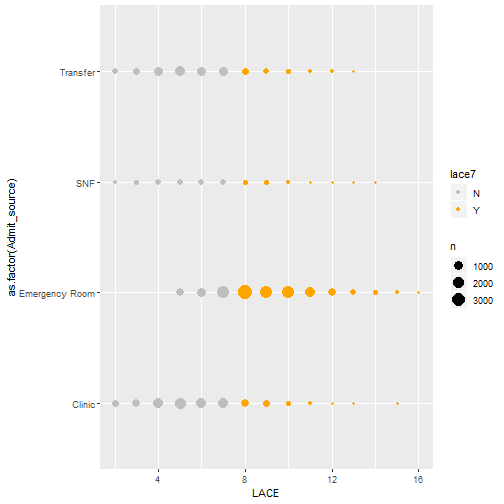
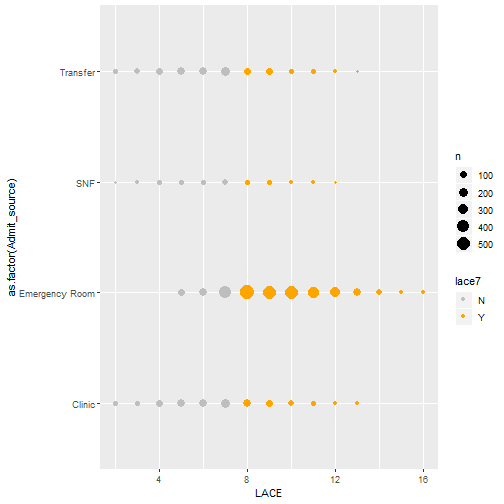
update

diff --git a/index.html b/index.html
@@ -21,6 +21,7 @@
 class: center, middle, inverse, title-slide
 
 # Data Storytelling
+## BMI 569 Data Analytics
 ### Ted Laderas
 ### 2019-08-22
 
@@ -134,11 +135,6 @@ class: center, middle
 
 Tables do require mental processing. It may be worth it to just use the number as the visual.
 
-
-```r
-knitr::include_graphics("img/number.png")
-```
-
 &lt;img src="img/number.png" width="755" /&gt;
 
 .footnote[Storytelling with Data]
@@ -146,27 +142,19 @@ knitr::include_graphics("img/number.png")
 ---
 # Barplots
 
-Stacked versus unstacked.
-
-
-```r
-knitr::include_graphics("img/barplots.png")
-```
-
 &lt;img src="img/barplots.png" width="600" /&gt;
 
 .footnote[Storytelling with Data]
 ---
 # Heatmaps
 
+.pull-left[
 May be better than straight tables! Highlight differences using color.
+]
 
-
-```r
-knitr::include_graphics("img/heatmap.png")
-```
-
+.pull-right[
 &lt;img src="img/heatmap.png" width="731" /&gt;
+]
 ---
 class: center, middle
 # Highlighting your message
@@ -204,8 +192,8 @@ cvd_race_count &lt;- cvd_patient %&gt;%
 ---
 # CVD Race Count
 
-<div id="htmlwidget-27a8dba133e02c95f293" style="width:100%;height:auto;" class="datatables html-widget"></div>
-<script type="application/json" data-for="htmlwidget-27a8dba133e02c95f293">{"x":{"filter":"none","data":[["1","2","3","4","5","6","7","8"],["AmInd","AmInd","Asian/PI","Asian/PI","Black/AfAm","Black/AfAm","White","White"],["N","Y","N","Y","N","Y","N","Y"],[127,43,4657,1732,1778,268,22004,4991]],"container":"<table class=\"display\">\n  <thead>\n    <tr>\n      <th> <\/th>\n      <th>race<\/th>\n      <th>cvd<\/th>\n      <th>count<\/th>\n    <\/tr>\n  <\/thead>\n<\/table>","options":{"columnDefs":[{"className":"dt-right","targets":3},{"orderable":false,"targets":0}],"order":[],"autoWidth":false,"orderClasses":false}},"evals":[],"jsHooks":[]}</script>
+<div id="htmlwidget-e84cb71fa933c17f6667" style="width:100%;height:auto;" class="datatables html-widget"></div>
+<script type="application/json" data-for="htmlwidget-e84cb71fa933c17f6667">{"x":{"filter":"none","data":[["1","2","3","4","5","6","7","8"],["AmInd","AmInd","Asian/PI","Asian/PI","Black/AfAm","Black/AfAm","White","White"],["N","Y","N","Y","N","Y","N","Y"],[127,43,4657,1732,1778,268,22004,4991]],"container":"<table class=\"display\">\n  <thead>\n    <tr>\n      <th> <\/th>\n      <th>race<\/th>\n      <th>cvd<\/th>\n      <th>count<\/th>\n    <\/tr>\n  <\/thead>\n<\/table>","options":{"columnDefs":[{"className":"dt-right","targets":3},{"orderable":false,"targets":0}],"order":[],"autoWidth":false,"orderClasses":false}},"evals":[],"jsHooks":[]}</script>
 
 ---
 # Context: Ways to highlight parts of a graph
@@ -231,8 +219,8 @@ fullset &lt;- cvd_patient %&gt;%
 
 There's a new column called `highlight`:
 
-<div id="htmlwidget-73d1f6ad7f1f191d7c3d" style="width:100%;height:auto;" class="datatables html-widget"></div>
-<script type="application/json" data-for="htmlwidget-73d1f6ad7f1f191d7c3d">{"x":{"filter":"none","data":[["1","2","3","4"],["AmInd","Asian/PI","Black/AfAm","White"],[43,1732,268,4991],["N","N","Y","N"]],"container":"<table class=\"display\">\n  <thead>\n    <tr>\n      <th> <\/th>\n      <th>race<\/th>\n      <th>count<\/th>\n      <th>highlight<\/th>\n    <\/tr>\n  <\/thead>\n<\/table>","options":{"columnDefs":[{"className":"dt-right","targets":2},{"orderable":false,"targets":0}],"order":[],"autoWidth":false,"orderClasses":false}},"evals":[],"jsHooks":[]}</script>
+<div id="htmlwidget-70e40c3cce2474d9d9f4" style="width:100%;height:auto;" class="datatables html-widget"></div>
+<script type="application/json" data-for="htmlwidget-70e40c3cce2474d9d9f4">{"x":{"filter":"none","data":[["1","2","3","4"],["AmInd","Asian/PI","Black/AfAm","White"],[43,1732,268,4991],["N","N","Y","N"]],"container":"<table class=\"display\">\n  <thead>\n    <tr>\n      <th> <\/th>\n      <th>race<\/th>\n      <th>count<\/th>\n      <th>highlight<\/th>\n    <\/tr>\n  <\/thead>\n<\/table>","options":{"columnDefs":[{"className":"dt-right","targets":2},{"orderable":false,"targets":0}],"order":[],"autoWidth":false,"orderClasses":false}},"evals":[],"jsHooks":[]}</script>
 
 ---
 ## Highlighting the data
@@ -326,21 +314,19 @@ Use of `case_when()` to recode categorical data:
 
 
 ```r
-cvd_patient %&gt;% 
+recoded_data &lt;- cvd_patient %&gt;% 
 * mutate(smoking = case_when(smoking == "Y" ~ "smoker",
 *                            smoking == "N" ~ "non-smoker")) %&gt;%
   mutate(cvd= case_when(cvd == "N" ~ "CVD",
                         cvd == "Y" ~ "None")) %&gt;%
   select(smoking, cvd) %&gt;%
   table()
+
+DT::datatable(recoded_data)
 ```
 
-```
-##             cvd
-## smoking        CVD  None
-##   non-smoker 25653  5620
-##   smoker      2913  1414
-```
+<div id="htmlwidget-d74284ddceeb9a9b9c17" style="width:100%;height:auto;" class="datatables html-widget"></div>
+<script type="application/json" data-for="htmlwidget-d74284ddceeb9a9b9c17">{"x":{"filter":"none","data":[["non-smoker","smoker","non-smoker","smoker"],["non-smoker","smoker","non-smoker","smoker"],["CVD","CVD","None","None"],[25653,2913,5620,1414]],"container":"<table class=\"display\">\n  <thead>\n    <tr>\n      <th> <\/th>\n      <th>smoking<\/th>\n      <th>cvd<\/th>\n      <th>Freq<\/th>\n    <\/tr>\n  <\/thead>\n<\/table>","options":{"columnDefs":[{"className":"dt-right","targets":[1,2]},{"orderable":false,"targets":0}],"order":[],"autoWidth":false,"orderClasses":false}},"evals":[],"jsHooks":[]}</script>
 
 ---
 # Context: Annotating a graph using `annotate`:
@@ -361,6 +347,7 @@ Think of a title for this plot!
 lace_table &lt;- read.delim("data/analytic-table-LACE.txt")
 
 out_plot &lt;- lace_table %&gt;% 
+  filter(Readmit30 == 1) %&gt;%
 * mutate(lace7 = ifelse(LACE &gt; 7, "Y", "N")) %&gt;%
   ggplot(aes(y=as.factor(Admit_source), x=LACE, color=lace7)) +
   geom_count() + 
@@ -379,6 +366,7 @@ out_plot &lt;- lace_table %&gt;%
 lace_table &lt;- read.delim("data/analytic-table-LACE.txt")
 
 out_plot &lt;- lace_table %&gt;% 
+  filter(Readmit30 == 1) %&gt;%
   mutate(lace7 = ifelse(LACE &gt; 7, "Y", "N")) %&gt;% 
   ggplot(aes(y=as.factor(Admit_source), x=LACE, color=lace7)) + 
   geom_count() + scale_color_manual(values=c("Y"="orange", "N"="grey")) +
